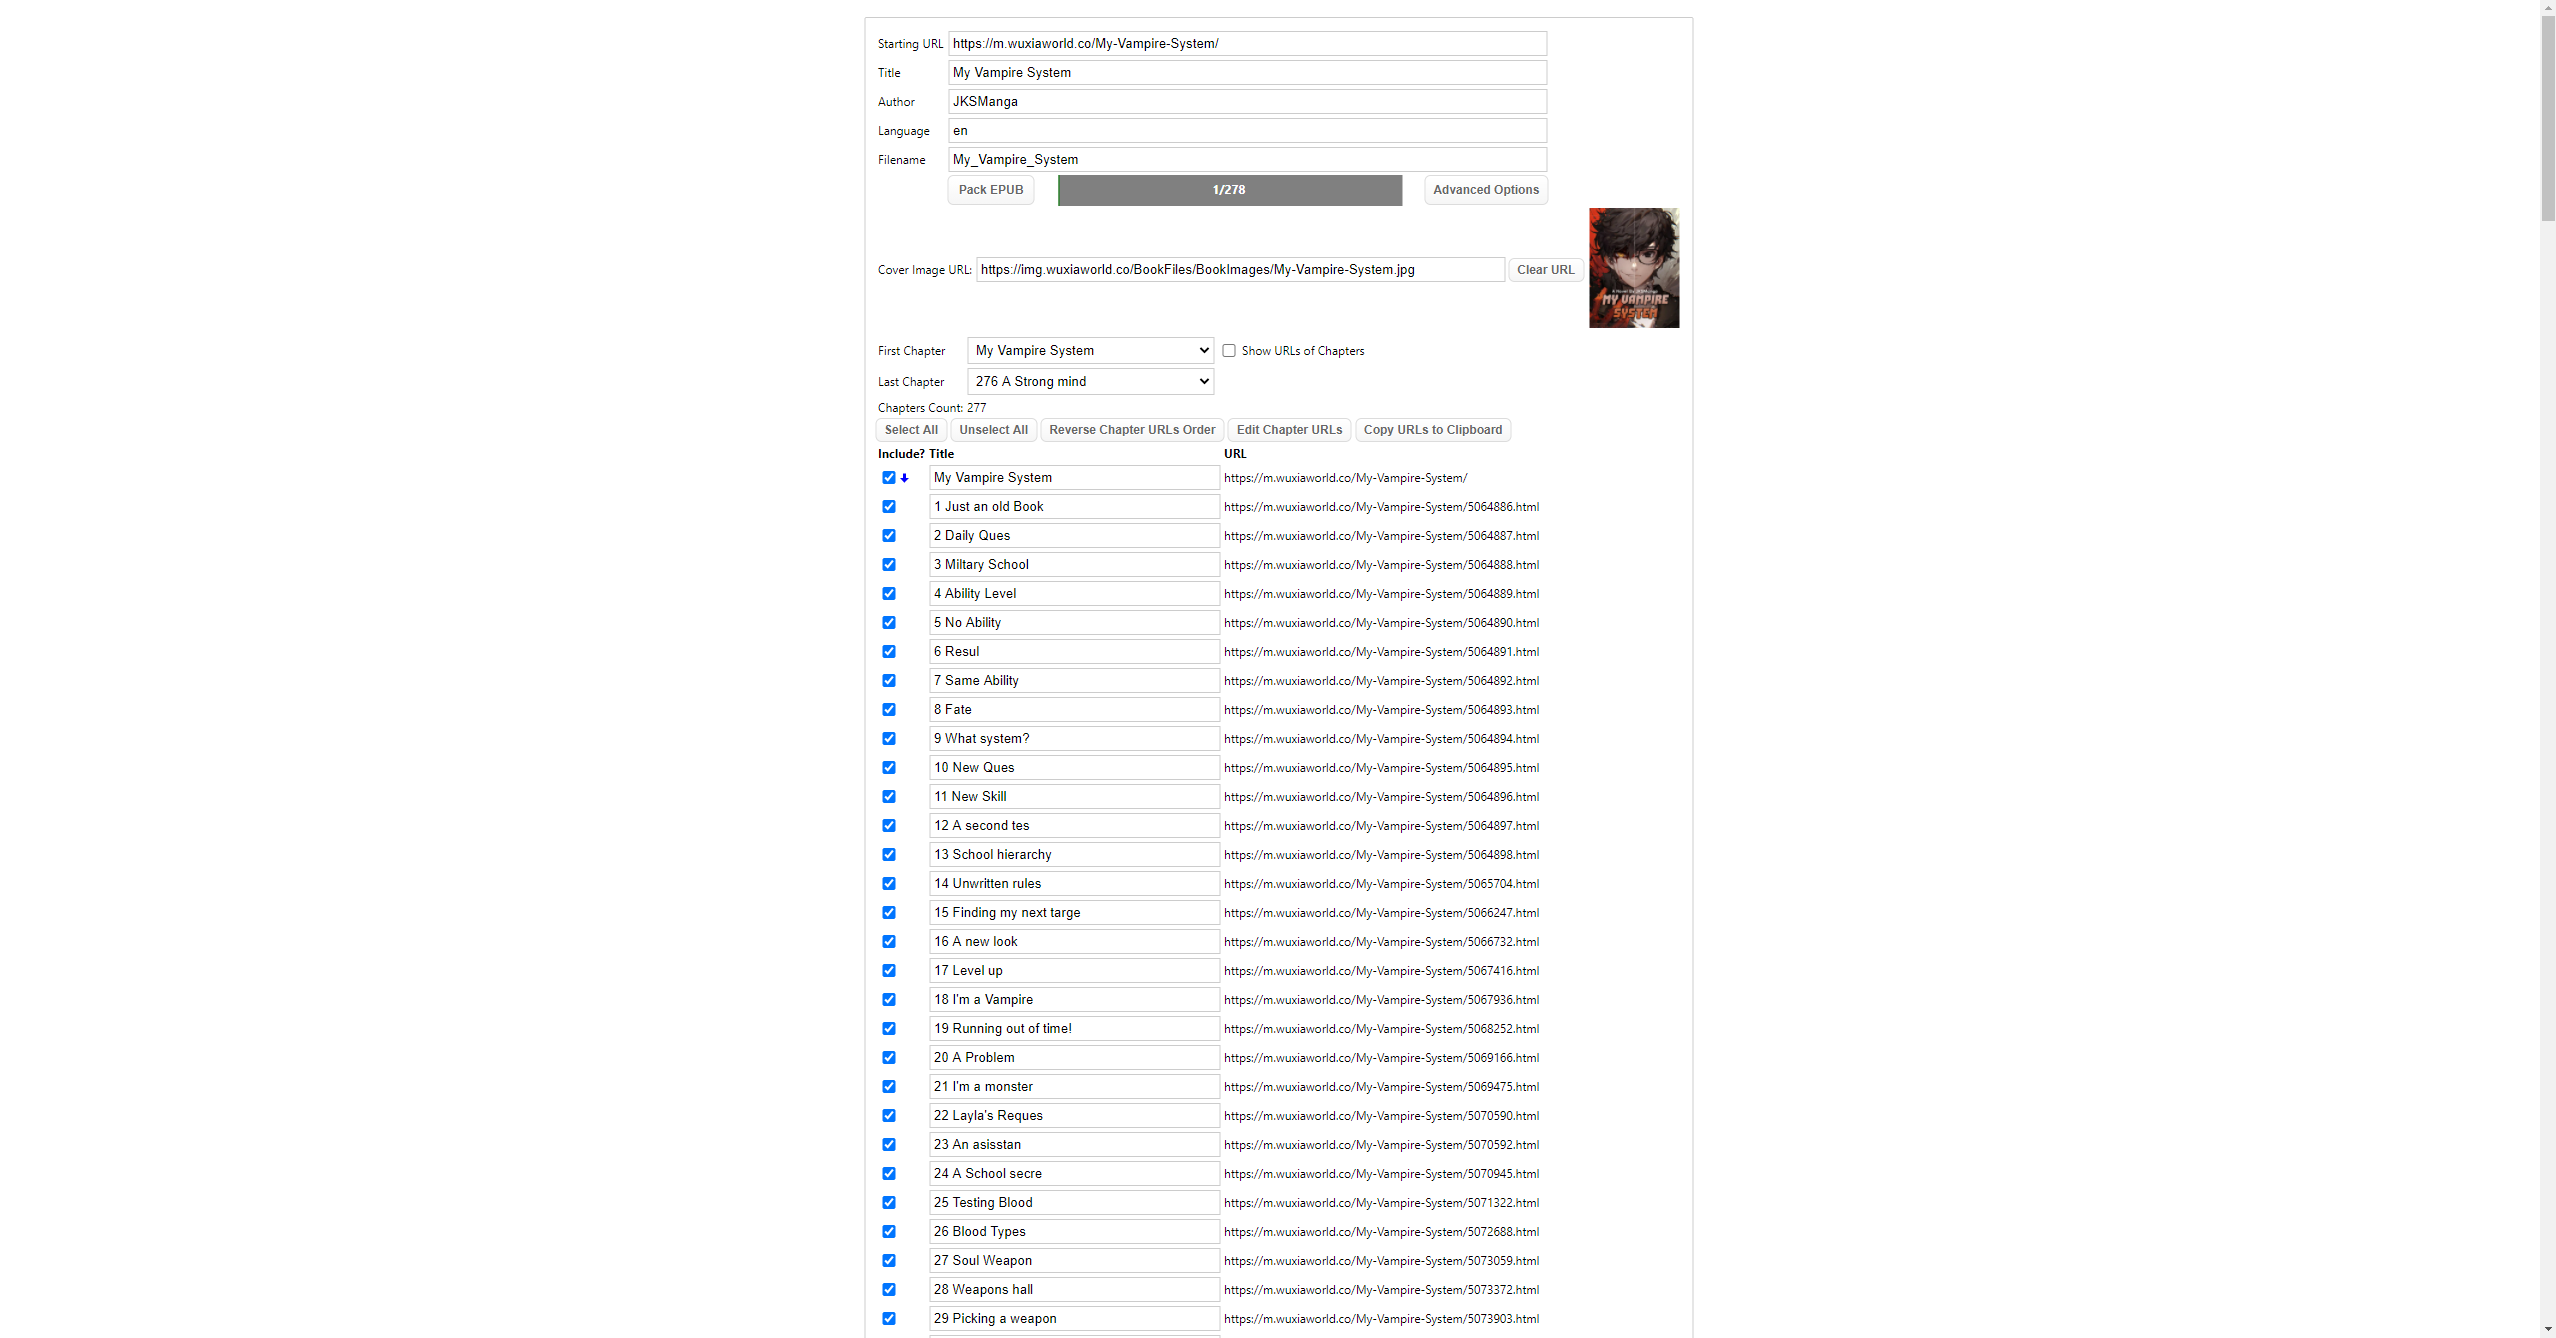
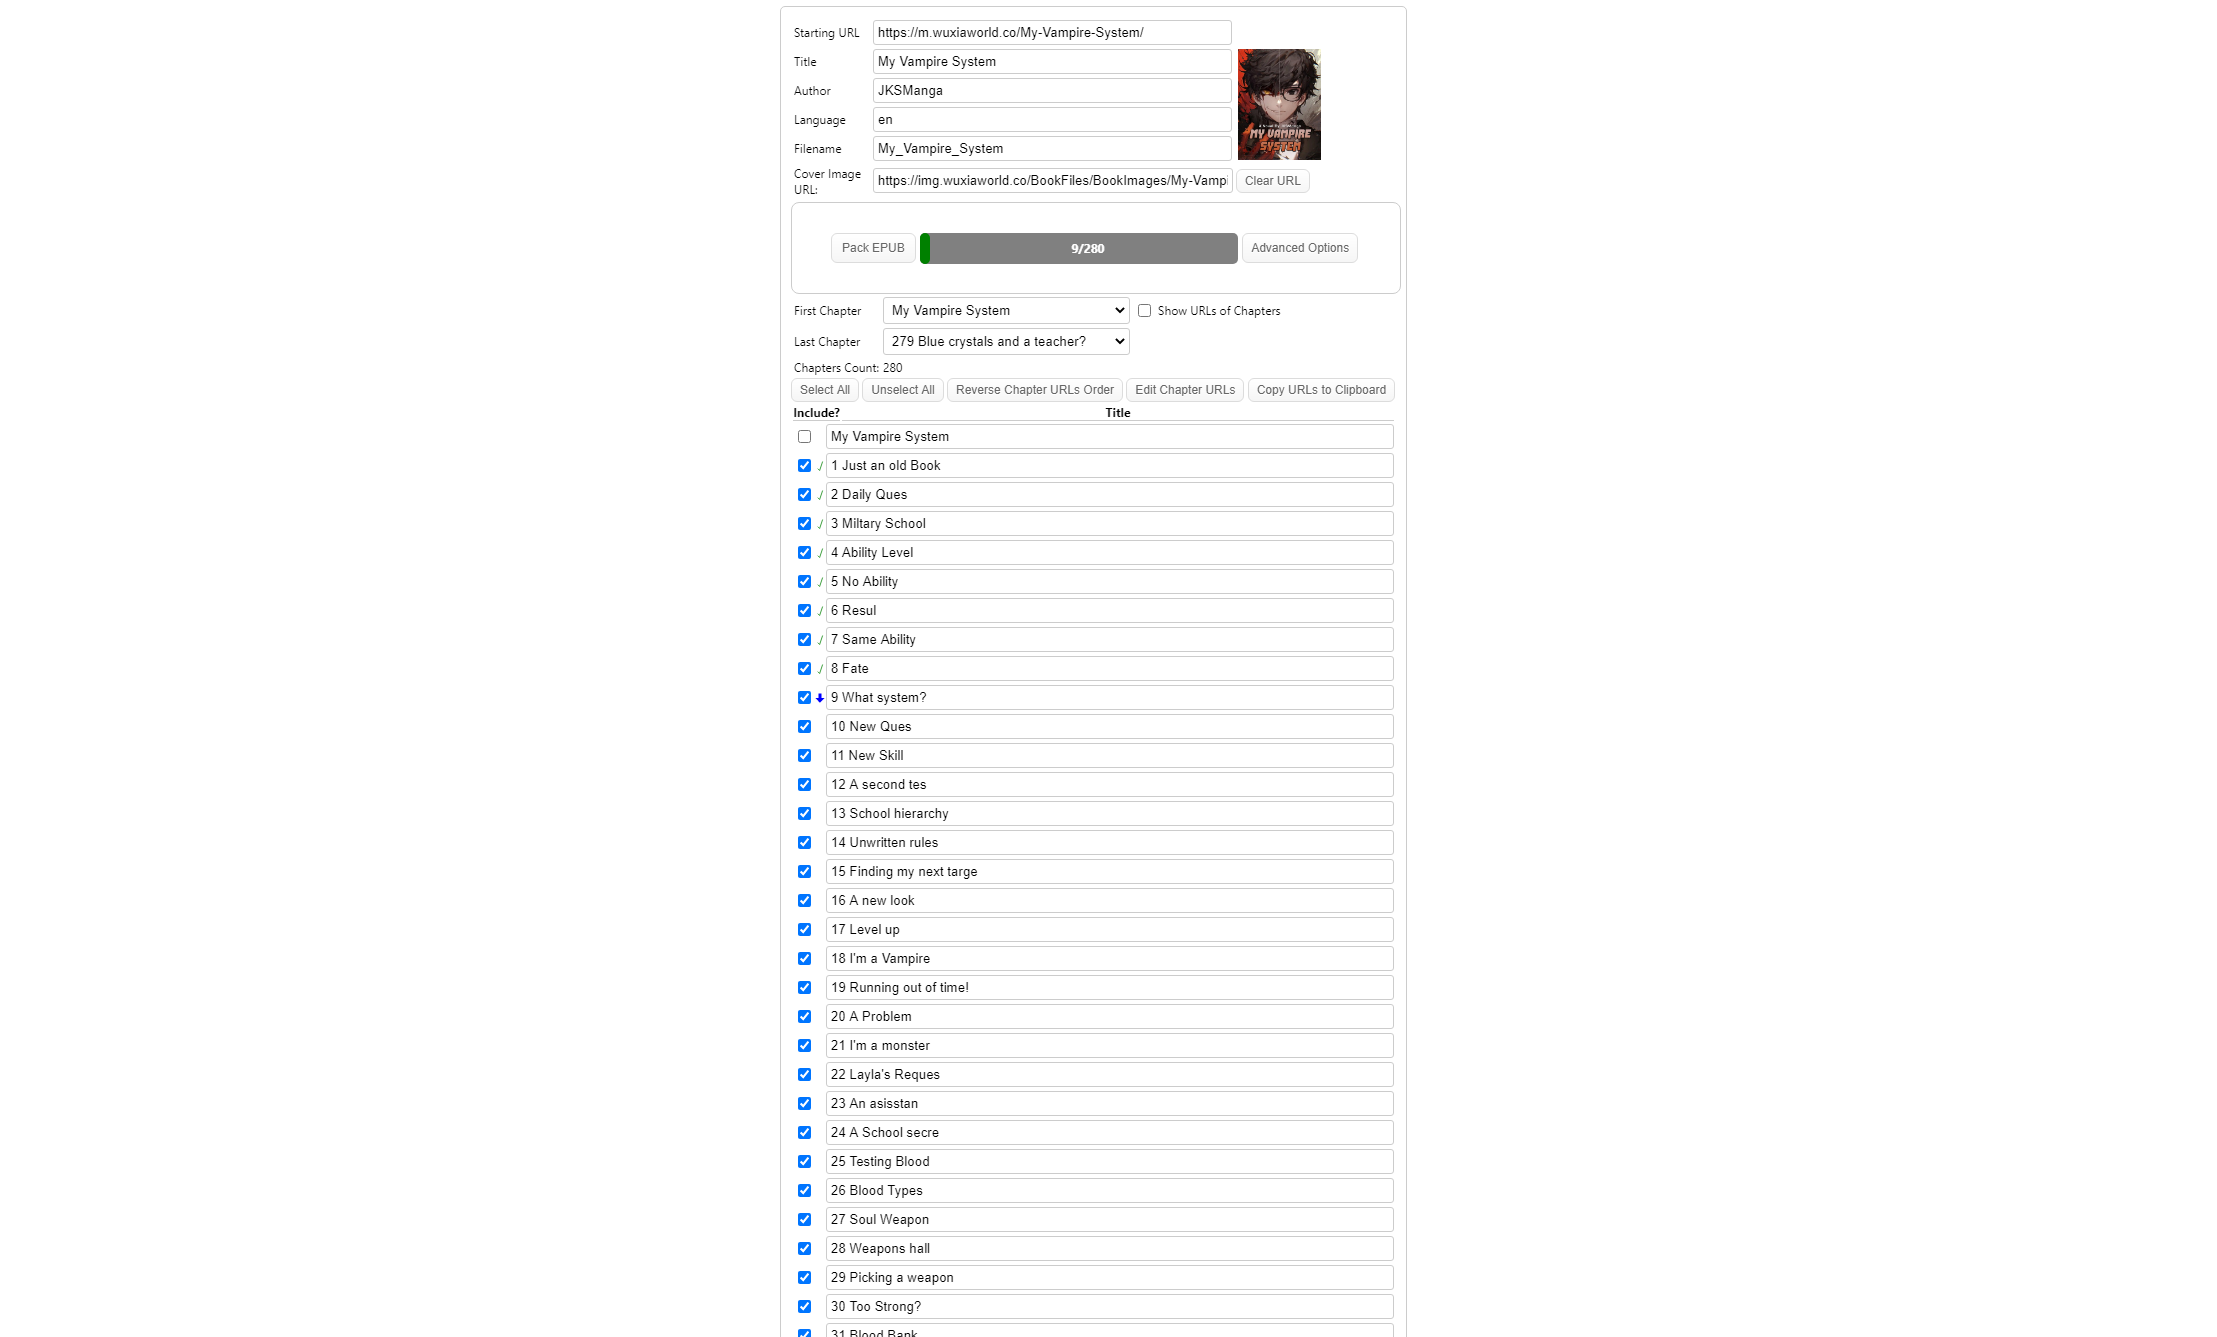
new Design

Changed region(s): [[0.3424, 0.0, 0.6847, 1.0], [0.9959, 0.0, 1.0, 0.184]]

diff --git a/plugin/popup.html b/plugin/popup.html
@@ -85,33 +85,35 @@
                 <tr>
                     <td>__MSG_label_Starting_URL__</td>
                     <td>
-                        <input id="startingUrlInput" type="url" name="startingUrlInput" size="80" />
+                        <input id="startingUrlInput" type="url" name="startingUrlInput" />
+                    </td>
+                    <td>
                         <button id="loadAndAnalyseButton">__MSG_button_load_and_analyse__</button>
                     </td>
                 </tr>
                 <tr>
                     <td>__MSG_label_Title__</td>
-                    <td><input id="titleInput" type="text" name="titleInput" size="80" /></td>
+                    <td><input id="titleInput" type="text" name="titleInput" /></td>
                 </tr>
                 <tr id="seriesRow" hidden>
                     <td>__MSG_label_Series__</td>
-                    <td><input id="seriesNameInput" type="text" name="titleInput" size="80" /></td>
+                    <td><input id="seriesNameInput" type="text" name="titleInput" /></td>
                 </tr>
                 <tr id="volumeRow" hidden>
                     <td>__MSG_label_Volume__</td>
-                    <td><input id="seriesIndexInput" type="text" name="titleInput" size="80" /></td>
+                    <td><input id="seriesIndexInput" type="text" name="titleInput" /></td>
                 </tr>
                 <tr>
                     <td>__MSG_label_Author__</td>
-                    <td><input id="authorInput" type="text" name="authorInput" size="80" /></td>
+                    <td><input id="authorInput" type="text" name="authorInput" /></td>
                 </tr>
                 <tr>
                     <td>__MSG_label_Language__</td>
-                    <td><input id="languageInput" type="text" name="languageInput" size="80" /></td>
+                    <td><input id="languageInput" type="text" name="languageInput" /></td>
                 </tr>
                 <tr>
                     <td>__MSG_label_Filename__</td>
-                    <td><input id="fileNameInput" type="text" name="fileNameInput" size="80" /></td>
+                    <td><input id="fileNameInput" type="text" name="fileNameInput" /></td>
                 </tr>
                 <tr id="removeAuthorNotesRow" hidden>
                     <td><input id="removeAuthorNotesCheckbox" type="checkbox" name="removeAuthorNotesCheckbox" value="false"></td>
@@ -121,18 +123,25 @@
                     <td><input id="removeOriginalCheckbox" type="checkbox" name="removeOriginalCheckbox" value="true"></td>
                     <td>__MSG_label_Remove_Original__</td>
                 </tr>
-                <tr>
+                <tr id="coverUrlSection">
+                    <td>__MSG_label_Cover_Image_URL__</td>
                     <td colspan="2">
-                        <div class="progressSection">
-                            <button id="packEpubButton" class="expandedButton">__MSG_button_Pack_EPUB__</button>
-                            <progress id="fetchProgress" value=" 0" max="1"></progress>
-                            <span id="progressString"></span>
-                            <button id="advancedOptionsButton">__MSG_button_Advanced_Options__</button>
-                        </div>
+                        <input id="coverImageUrlInput" style="width: 68%;" type="text" name="coverImageUrlInput">
+                        <button id="clearCoverImageUrlButton">__MSG_button_Clear_Url__</button>
                     </td>
+                    <td rowspan="2">   <img id="sampleCoverImg" /></td>
+                </tr>
+                <tr>
                 </tr>
             </table>
-          
+
+            <div class="progressSection">
+                <button id="packEpubButton" class="expandedButton">__MSG_button_Pack_EPUB__</button>
+                <progress id="fetchProgress" value=" 0" max="1"></progress>
+                <span id="progressString"></span>
+                <button id="advancedOptionsButton">__MSG_button_Advanced_Options__</button>
+            </div>
+
             <section hidden id="advancedOptionsSection">
                 <table id="advancedOptionsTable">
                     <tr id="translatorRow" hidden>
@@ -277,20 +286,6 @@
                 <table id="imagesTable"></table>
             </div>
         </section>
-        <section id="coverUrlSection">
-            <table id="imageOptionsTable">
-                <tr id="CoverImageUrlRow">
-                    <td>__MSG_label_Cover_Image_URL__</td>
-                    <td>
-                        <input id="coverImageUrlInput" type="text" name="coverImageUrlInput" size="70">
-                        <button id="clearCoverImageUrlButton">__MSG_button_Clear_Url__</button>
-                    </td>
-                    <td>
-                        <img id="sampleCoverImg" style="max-height: 120px; width: auto; " />
-                    </td>
-                </tr>
-            </table>
-        </section>
         <section id="outputSection" class="minWidth">
             <div id="chapterSelectControlsDiv">
                 <table id="rangeSelectTable">
@@ -357,7 +352,7 @@
     <script src="js/parsers/BakaTsukiParser.js"></script>
     <script src="js/parsers/BakaTsukiSeriesPageParser.js"></script>
     <script src="js/parsers/BlogspotParser.js"></script>
-    <script src="js/parsers/BoxnovelOrgParser.js"></script> 
+    <script src="js/parsers/BoxnovelOrgParser.js"></script>
     <script src="js/parsers/BoxnovelParser.js"></script>
     <script src="js/parsers/ChineseFantasyNovelsParser.js"></script>
     <script src="js/parsers/ComrademaoParser.js"></script>
@@ -400,7 +395,7 @@
     <script src="js/parsers/MMyWwuxiaWorldParser.js"></script>
     <script src="js/parsers/MtledNovelsParser.js"></script>
     <script src="js/parsers/MtlnovelParser.js"></script>
-    <script src="js/parsers/MoonQuillParser.js"></script> 
+    <script src="js/parsers/MoonQuillParser.js"></script>
     <script src="js/parsers/MuggleNetParser.js"></script>
     <script src="js/parsers/NanodesuParser.js"></script>
     <script src="js/parsers/NightcomicParser.js"></script>
@@ -437,7 +432,7 @@
     <script src="js/parsers/TapreadParser.js"></script>
     <script src="js/parsers/TomotranslationsParser.js"></script>
     <script src="js/parsers/TruyenfullParser.js"></script>
-    <script src="js/parsers/TruyenyyParser.js"></script>  
+    <script src="js/parsers/TruyenyyParser.js"></script>
     <script src="js/parsers/UltimaguilParser.js"></script>
     <script src="js/parsers/UnlimitedNovelFailuresParser.js"></script>
     <script src="js/parsers/VipNovelParser.js"></script>

diff --git a/plugin/css/default.css b/plugin/css/default.css
@@ -17,29 +17,48 @@
     width: 36px;
     display: inline-block;
     position: absolute;
-    left: 40%;
-    top: 6px;
+    left: 46%;
     color: white;
+    z-index: 1000;
     font-weight: bolder;
+    margin-top: 7px;
 }
 
 #advancedOptionsSection {
     margin-top: 3px;
     margin-bottom: 20px;
-    border-top: 1px #CCC solid;
+    /*border-top: 1px #CCC solid;*/
     border-bottom: 1px #CCC solid;
 }
 
 
 progress {
-    width: 52%;
+    width: 56%;
     height: 31px;
     margin: 0;
     padding: 0;
-    border-radius: 1px;
-    margin-left: 24px;
-    margin-right: 22px;
+    border-radius: 5px;
+    margin-left: 4px;
+    margin-right: 4px;
 }
+
+    progress::-webkit-progress-bar {
+        border: 0;
+        height: 31px;
+        border-radius: 5px;
+    }
+
+    progress::-webkit-progress-value {
+        border: 0;
+        height: 31px;
+        border-radius: 8px;
+    }
+
+    progress::-moz-progress-bar {
+        border: 0;
+        height: 31px;
+        border-radius: 5px;
+    }
 
 [hidden] {
     display: none;
@@ -83,7 +102,7 @@ td.disabled {
     display: table;
     padding: 10px;
     margin: auto;
-    border-radius:5px;    
+    border-radius: 5px;
 }
 
 
@@ -93,6 +112,33 @@ input[type=text], input[type=url], textarea, select {
     border-radius: 3px;
 }
 
+#inputSection input {
+    width: 69%;
+}
+
+#inputSection > table, #chapterUrlsTable {
+    width: 100%;
+}
+
+    #chapterUrlsTable input[type=text] {
+        width: 101.5%;
+        position: relative;
+        left: -17px;
+    }
+
+    #chapterUrlsTable tbody > tr > th {
+        text-align: center;
+        border-bottom: 1px #CCC solid;
+        padding: 0;
+    }
+
+#inputSection tbody > tr > td:first-child {
+    width: 75px;
+}
+
+#chapterUrlsTable > tr > td:first-child, #chapterUrlsTable > tbody > tr > td:nth-child(2) {
+    width: 3px;
+}
 
 button {
     box-shadow: inset 0px 1px 0px 0px #ffffff;
@@ -105,43 +151,54 @@ button {
     color: #666666;
     font-family: Arial;
     font-size: 12px;
-    font-weight: bold;
+    /* font-weight: bold; */
     padding: 4px 8px;
     text-decoration: none;
     text-shadow: 0px 1px 0px #ffffff;
+    max-height: 30px;
 }
 
-button:hover {
-    background: linear-gradient(to bottom, #f6f6f6 5%, #ffffff 100%);
-    background-color: #f6f6f6;
-}
+    button:hover {
+        background: linear-gradient(to bottom, #f6f6f6 5%, #ffffff 100%);
+        background-color: #f6f6f6;
+    }
 
-button:active {
-    position: relative;
-    top: 1px;
-}
+    button:active {
+        position: relative;
+        top: 1px;
+    }
 
 .progressSection {
-    margin: auto;
-    width: 100%;
+    width: 94%;
     position: relative;
     display: flex;
-    height: 30px;
-    margin-left: 69px;
+    height: 60px;
+    border: 1px #CCC solid;
+    padding-top: 30px;
+    padding-left: 39px;
+    border-radius: 8px;
+}
+
+#coverUrlSection img {
+    max-height: 111px;
+    width: auto;
+    position: absolute;
+    top: 51px;
+    margin-left: -153px;
 }
 
 @media (prefers-color-scheme: dark) {
-    body { 
-        background: #333333; 
-        color: #eee; 
+    body {
+        background: #333333;
+        color: #eee;
     }
 
     input, button, select, progress, textarea {
-        background: #2b2b2b; 
-        color: #eee; 
+        background: #2b2b2b;
+        color: #eee;
     }
 
-    button:hover {
-        color: #222222; 
-    }
+        button:hover {
+            color: #222222;
+        }
 }
